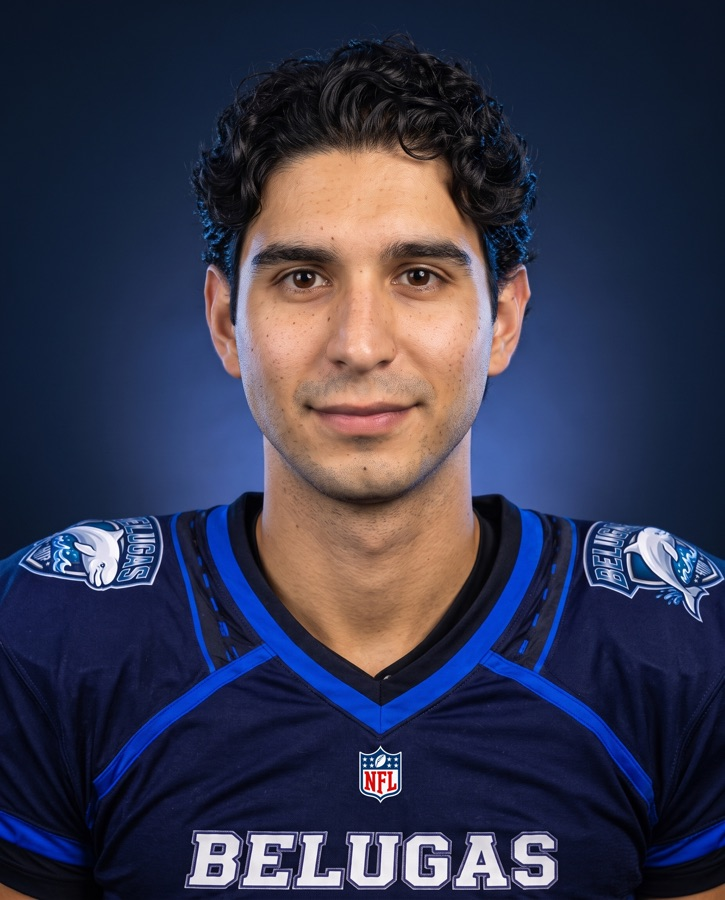
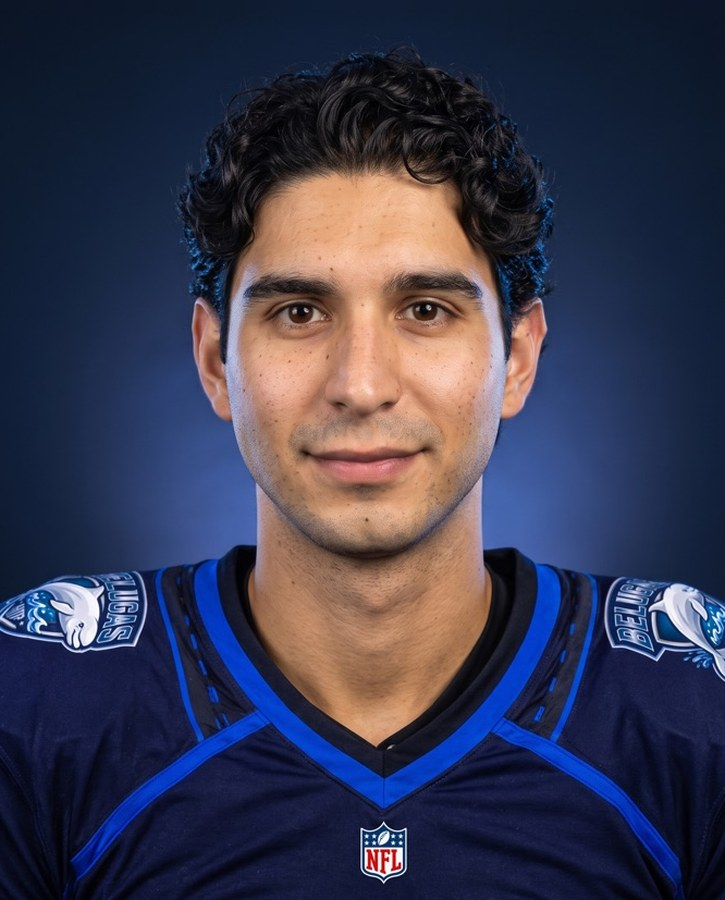
Retratos parejos: misma cara y ojos a la misma altura en los trece; la ficha difumina el jersey abajo; el retrato se liga también por el nombre de hoy (Juanpi)

diff --git a/index.html b/index.html
@@ -154,7 +154,8 @@ h2 small { font: 600 12.5px/1 Inter; color: var(--mut); }
 .foto { position: relative; flex: none; display: block; border-radius: 50%; }
 .foto > span { display: block; width: 100%; height: 100%; border-radius: 50%; overflow: hidden; background: #fff; }
 .foto svg, .foto img { display: block; width: 100%; height: 100%; object-fit: cover; }
-/* los retratos son de 725 × 900 con la cabeza arriba: el círculo toma la parte de arriba para no cortarles el pelo (Iker, 17-nov) */
+/* los retratos son de 725 × 900 con la cabeza arriba: el círculo toma la parte de arriba para no cortarles el pelo (Iker, 17-nov).
+   Todos vienen reencuadrados igual: cara del mismo tamaño y ojos a la misma altura (y 309), para que nadie se vea más grande ni más alto */
 .foto img { object-position: 50% 0; }
 .foto .ini { display: grid; place-items: center; height: 100%; background: #e8eef7; color: var(--navy); font: 800 13px/1 Inter; }
 .pila { display: flex; align-items: center; }
@@ -656,7 +657,7 @@ html.app .pant > .pregunta.aviso { top: calc(env(safe-area-inset-top) + 46px); }
 .tj-nom em { display: block; font-style: italic; color: rgba(214,228,247,.72); margin-top: .08em; }
 .tj-foto { position: absolute; right: 4px; bottom: 92px; width: 244px; z-index: 1; }
 .tj.real .tj-foto { right: 0; bottom: 92px; width: 240px; height: 300px; }
-.tj.real .tj-foto img { width: 100%; height: 100%; object-fit: cover; object-position: 50% 0; filter: none; -webkit-mask-image: linear-gradient(to right, transparent 0, rgba(0,0,0,.35) 18%, #000 46%), linear-gradient(to bottom, transparent 0, rgba(0,0,0,.75) 4%, #000 9%); -webkit-mask-composite: source-in; mask-image: linear-gradient(to right, transparent 0, rgba(0,0,0,.35) 18%, #000 46%), linear-gradient(to bottom, transparent 0, rgba(0,0,0,.75) 4%, #000 9%); mask-composite: intersect; }
+.tj.real .tj-foto img { width: 100%; height: 100%; object-fit: cover; object-position: 50% 0; filter: none; -webkit-mask-image: linear-gradient(to right, transparent 0, rgba(0,0,0,.35) 18%, #000 46%), linear-gradient(to bottom, transparent 0, rgba(0,0,0,.75) 4%, #000 9%, #000 74%, transparent 100%); -webkit-mask-composite: source-in; mask-image: linear-gradient(to right, transparent 0, rgba(0,0,0,.35) 18%, #000 46%), linear-gradient(to bottom, transparent 0, rgba(0,0,0,.75) 4%, #000 9%, #000 74%, transparent 100%); mask-composite: intersect; }
 .tj-foto svg, .tj-foto img { display: block; width: 100%; filter: drop-shadow(-6px 0 18px rgba(5,14,30,.35)); }
 .tj.sinfoto .tj-foto { right: 26px; bottom: 150px; width: 128px; height: 128px; border-radius: 50%; background: rgba(255,255,255,.14); display: grid; place-items: center; }
 .tj .ini { font: italic 900 46px/1 var(--disp); color: #fff; }
@@ -881,12 +882,14 @@ const ic = (k, chico = false) => { const g = ICONOS_S[k] || ICONOS_S.parada, ton
 // T es la temporada: el plantel (sembrado una vez con los nombres de la app de antes), quiénes salen de inicio y los partidos marcados.
 const tempVacia = () => ({ v: 1, plantel: [], linea: { O: [], D: [], qb: null, ver: 0 }, juegos: {}, sembrado: 0 });
 let T = tempVacia(), PLANTEL = [];
-// retratos aprobados para publicarse (archivos/jugadores); los demás van con sus iniciales
-const RETRATOS = { nicolas: 'nico', rodrigo: 'rodrigo', mau: 'mau', iker: 'iker', mario: 'mario', jaime: 'jaime', uri: 'uri', ian: 'ian', patrick: 'patrick', juanpi: 'juanpi', leo: 'leo', jose: 'jose', juancho: 'juancho' };
+// retratos aprobados para publicarse (archivos/jugadores); los demás van con sus iniciales.
+// Se ligan por id o por el nombre de hoy: el id se queda con el nombre con que entró (Juanpi entró como «Jonpol», Iker 17-nov)
+const RETRATOS = { nicolas: 'nico', rodrigo: 'rodrigo', mau: 'mau', iker: 'iker', mario: 'mario', jaime: 'jaime', uri: 'uri', ian: 'ian', patrick: 'patrick', juanpi: 'juanpi', jonpol: 'juanpi', leo: 'leo', jose: 'jose', juancho: 'juancho' };
+const retrato = (x) => RETRATOS[x.id] || RETRATOS[slug(x.nombre).replace(/-/g, '')];
 const P = (id) => PLANTEL.find((x) => x.id === id);
 function armarPlantel() {
   const l = T.linea || {};
-  PLANTEL = (T.plantel || []).filter((x) => !x.baja).sort((a, b) => (a.n ?? 999) - (b.n ?? 999) || (a.id < b.id ? -1 : 1)).map((x) => { const f = RETRATOS[x.id] ? `archivos/jugadores/${RETRATOS[x.id]}.jpg` : null, n = esc(x.nombre);
+  PLANTEL = (T.plantel || []).filter((x) => !x.baja).sort((a, b) => (a.n ?? 999) - (b.n ?? 999) || (a.id < b.id ? -1 : 1)).map((x) => { const r = retrato(x), f = r ? `archivos/jugadores/${r}.jpg` : null, n = esc(x.nombre);
     return { id: x.id, nombre: n, corto: n, num: null, pos: x.id === l.qb ? 'QB' : '', img: f, cara: f, lado: x.lado }; });
 }
 // los partidos jugados antes de marcar en la app del teléfono: de ellos solo se sabe el marcador (los pasó Mau el 15-nov: van 5–1).
